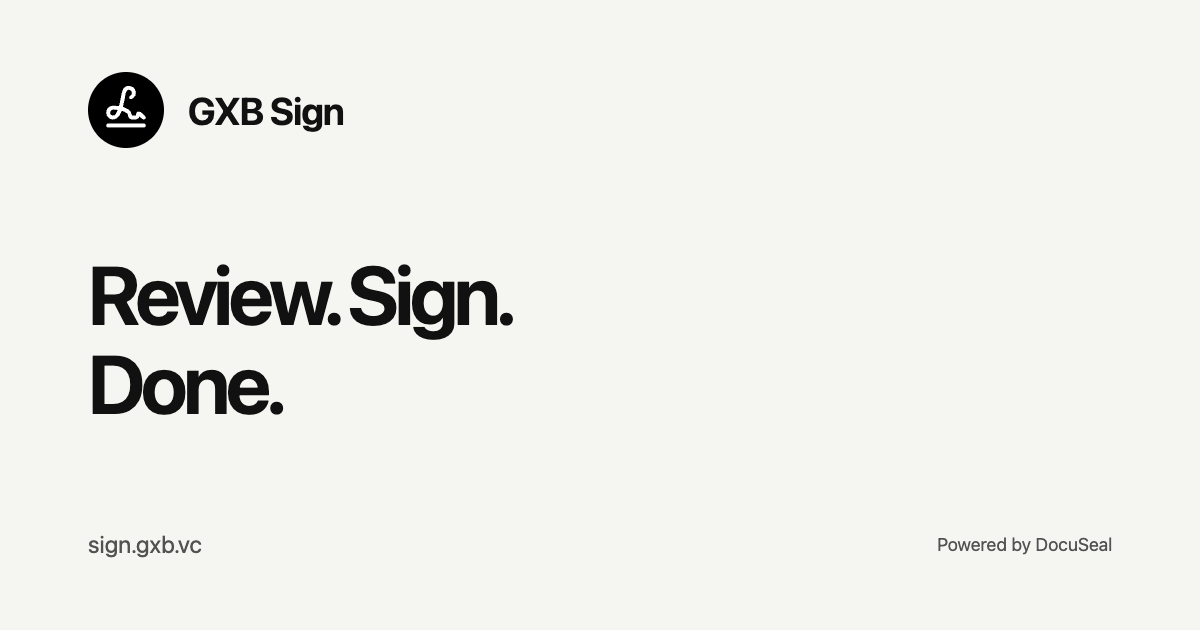
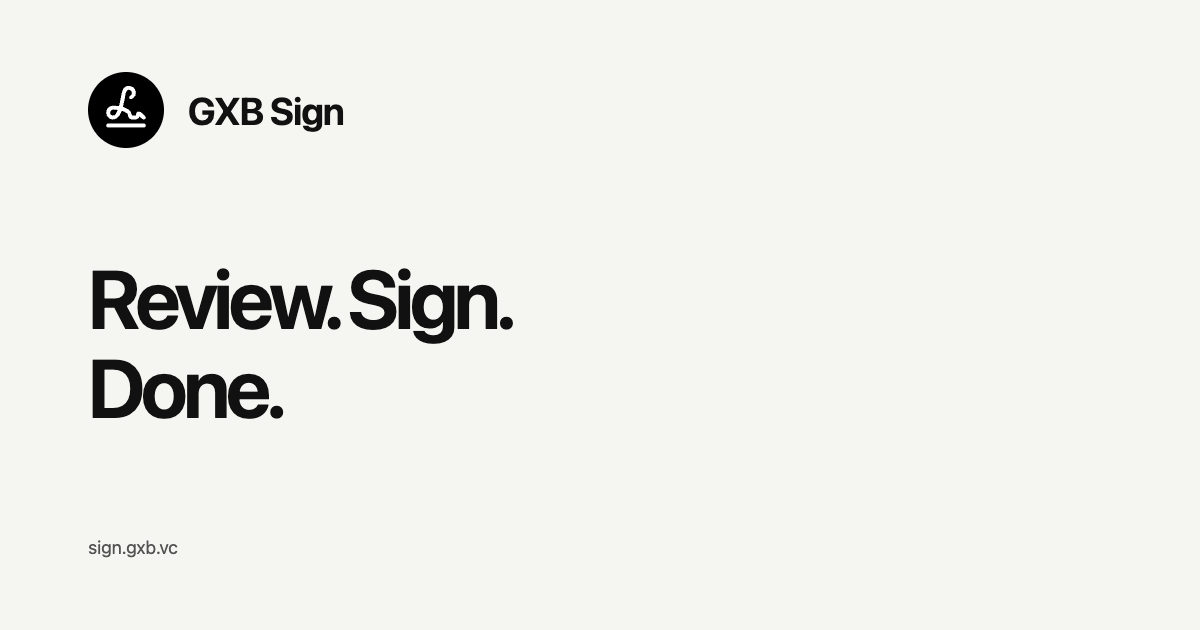
Rename DocuSeal to GXB Sign in UI, emails, PDFs, and images; remove powered-by footers and email attribution

Changed region(s): [[0.0617, 0.4222, 0.4317, 0.6635], [0.0617, 0.8444, 0.185, 0.9048], [0.7708, 0.8444, 0.925, 0.8746]]

diff --git a/app/javascript/submission_form/completed.vue b/app/javascript/submission_form/completed.vue
@@ -96,17 +96,6 @@
         </span>
       </a>
     </div>
-    <div
-      v-if="attribution"
-      class="text-center mt-4"
-    >
-      {{ t('powered_by') }}
-      <a
-        href="https://www.docuseal.com/start"
-        target="_blank"
-        class="underline"
-      >DocuSeal</a> - {{ t('open_source_documents_software') }}
-    </div>
   </div>
 </template>
 

diff --git a/public/service-worker.js b/public/service-worker.js
@@ -1,9 +1,9 @@
 self.addEventListener('install', () => {
-  console.log('DocuSeal App installed')
+  console.log('GXB Sign App installed')
 })
 
 self.addEventListener('activate', () => {
-  console.log('DocuSeal App activated')
+  console.log('GXB Sign App activated')
 })
 
 self.addEventListener('fetch', (event) => {

diff --git a/deploy/branding/public/og-image.html b/deploy/branding/public/og-image.html
@@ -26,7 +26,7 @@ footer span:last-child { font-size: 18px; }
 GXB Sign
 </div>
 <h1>Review. Sign.<br>Done.</h1>
-<footer><span>sign.gxb.vc</span><span>Powered by DocuSeal</span></footer>
+<footer><span>sign.gxb.vc</span></footer>
 </main>
 </body>
 </html>

diff --git a/lib/submissions/generate_audit_trail.rb b/lib/submissions/generate_audit_trail.rb
@@ -44,7 +44,7 @@ module Submissions
 
         io = StringIO.new
 
-        document.trailer.info[:Creator] = "#{Docuseal.product_name} (#{Docuseal::PRODUCT_URL})"
+        document.trailer.info[:Creator] = Docuseal.product_name
 
         if pkcs
           sign_params = {
@@ -539,7 +539,7 @@ module Submissions
     end
 
     def sign_reason
-      'Signed with DocuSeal.com'
+      'Signed with GXB Sign'
     end
 
     def select_attachments(submitter)
@@ -561,11 +561,10 @@ module Submissions
     def add_logo(column, _submission = nil)
       column.image(PdfIcons.logo_io, width: 40, height: 40, position: :float)
 
-      column.formatted_text([{ text: 'DocuSeal',
-                               link: Docuseal::PRODUCT_EMAIL_URL }],
+      column.formatted_text([{ text: Docuseal.product_name }],
                             font_size: 20,
                             font: [FONT_NAME, { variant: :bold }],
-                            width: 100,
+                            width: 120,
                             padding: [5, 0, 0, 8],
                             position: :float, text_align: :left)
     end

diff --git a/deploy/candidate_test.rb b/deploy/candidate_test.rb
@@ -14,7 +14,7 @@ raise "Landing status #{session.response.status}" unless session.response.status
 html = Nokogiri::HTML(session.response.body)
 raise 'Wrong page title' unless html.at_css('title').text.strip == 'GXB Sign'
 raise 'Wrong heading' unless html.at_css('h1').text.strip == 'GXB Sign'
-raise 'Missing attribution' unless html.css('a').any? { |a| a.text == 'DocuSeal' && a['href'].start_with?('https://www.docuseal.com') }
+raise 'DocuSeal footer present' if html.css('a').any? { |a| a.text == 'DocuSeal' } || html.text.match?(/powered by/i)
 raise 'Missing source' unless html.at_css('a[href="/gxb-sign/source.tar.gz"]')
 raise 'Wrong OG image' unless html.at_css('meta[property="og:image"]')['content'] == 'http://localhost/gxb-sign/og-image.png'
 raise 'Wrong favicon' unless html.at_css('link[type="image/svg+xml"]')['href'] == '/gxb-sign/favicon.svg'

diff --git a/deploy/verify.rb b/deploy/verify.rb
@@ -21,7 +21,7 @@ abort 'FAIL: OG title' unless html.include?('property="og:title" content="GXB Si
 abort 'FAIL: OG image' unless html.include?("#{origin}/gxb-sign/og-image.png")
 abort 'FAIL: favicon' unless html.include?('href="/gxb-sign/favicon.svg"')
 abort 'FAIL: builder branding stylesheet' unless html.include?('href="/gxb-sign/builder-branding-v1.css"')
-abort 'FAIL: attribution' unless html.include?('>DocuSeal</a>')
+abort 'FAIL: DocuSeal footer' if html.match?(/powered by|>DocuSeal</i)
 abort 'FAIL: source link' unless html.include?('href="/gxb-sign/source.tar.gz"')
 manifest = JSON.parse(fetch.call('/manifest.json'))
 abort 'FAIL: manifest name' unless manifest['name'] == 'GXB Sign'

diff --git a/deploy/test_branding.rb b/deploy/test_branding.rb
@@ -81,12 +81,10 @@ class BrandingTest < Minitest::Test
     end
   end
 
-  def test_attribution_and_source_remain
+  def test_footer_has_only_source_link
     html = File.read(File.join(ROOT, 'views/shared/_powered_by.html.erb'))
-    assert_includes html, 'Docuseal::PRODUCT_URL'
-    assert_includes html, 'Docuseal.product_name'
     assert_includes html, '/gxb-sign/source.tar.gz'
-    refute_match(/PRODUCT_NAME\s*=/, File.read(File.join(ROOT, 'initializer.rb')))
+    refute_match(/powered|docuseal/i, html)
     assert File.file?(File.join(ROOT, 'LUCIDE-LICENSE'))
   end
 

diff --git a/deploy/candidate_data_test.rb b/deploy/candidate_data_test.rb
@@ -93,7 +93,7 @@ when 'after'
   html = Nokogiri::HTML(session.response.body)
   if session.response.status == 200
     raise 'Wrong page title' unless html.at_css('title').text.strip == 'GXB Sign'
-    raise 'Missing attribution' unless html.css('a').any? { |a| a.text == 'DocuSeal' }
+    raise 'DocuSeal footer present' if html.css('a').any? { |a| a.text == 'DocuSeal' } || html.text.match?(/powered by/i)
     raise 'Missing source' unless html.at_css('a[href="/gxb-sign/source.tar.gz"]')
   end
   puts "INFO: landing status=#{session.response.status}"

diff --git a/lib/submissions/generate_result_attachments.rb b/lib/submissions/generate_result_attachments.rb
@@ -34,7 +34,7 @@ module Submissions
       bold_italic: FONT_BOLD_NAME
     }.freeze
 
-    SIGN_REASON = 'Signed with DocuSeal.com'
+    SIGN_REASON = 'Signed with GXB Sign'
 
     UNSUPPORTED_IMAGE_TYPES = ['image/heic', 'image/avif'].freeze
 
@@ -1043,7 +1043,7 @@ module Submissions
     end
 
     def info_creator
-      "#{Docuseal.product_name} (#{Docuseal::PRODUCT_URL})"
+      Docuseal.product_name
     end
 
     def detached_signature?(_submitter)

diff --git a/lib/docuseal.rb b/lib/docuseal.rb
@@ -5,7 +5,7 @@ module Docuseal
   PRODUCT_EMAIL_URL = ENV.fetch('PRODUCT_EMAIL_URL', PRODUCT_URL)
   NEWSLETTER_URL = "#{PRODUCT_URL}/newsletters".freeze
   ENQUIRIES_URL = "#{PRODUCT_URL}/enquiries".freeze
-  PRODUCT_NAME = 'DocuSeal'
+  PRODUCT_NAME = 'GXB Sign'
   DEFAULT_APP_URL = ENV.fetch('APP_URL', 'http://localhost:3000')
   GITHUB_URL = 'https://github.com/docusealco/docuseal'
   DISCORD_URL = 'https://discord.gg/qygYCDGck9'

diff --git a/deploy/branding/initializer.rb b/deploy/branding/initializer.rb
@@ -1,6 +1,6 @@
 # frozen_string_literal: true
 
-# Presentation only. Keep Docuseal.product_name and all attribution unchanged.
+# Presentation only. The product name itself is set in lib/docuseal.rb.
 Rails.application.config.to_prepare do
   ActionController::Base.prepend_view_path('/opt/gxb-sign/views')
 end

diff --git a/app/mailers/application_mailer.rb b/app/mailers/application_mailer.rb
@@ -1,7 +1,7 @@
 # frozen_string_literal: true
 
 class ApplicationMailer < ActionMailer::Base
-  default from: 'DocuSeal <info@docuseal.com>'
+  default from: 'GXB Sign <sign@gxb.vc>'
   layout 'mailer'
 
   register_interceptor ActionMailerConfigsInterceptor
